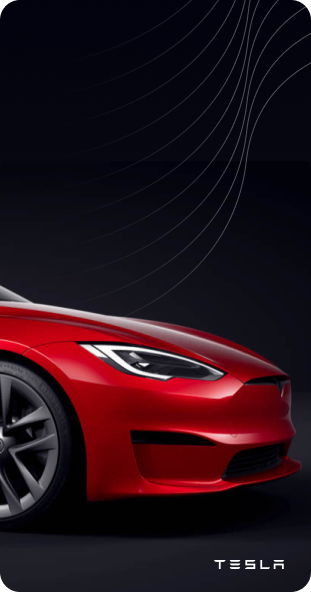
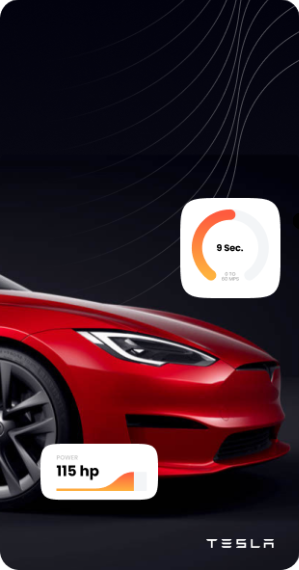
.

diff --git a/index.html b/index.html
@@ -13,9 +13,9 @@
                 Carzin
             </h2>
         </div>
-        <div class="website-menu-hamburguer">
+        <nav class="website-border-orange">
             <img src="/imagens/menu.svg" alt="Menu hamburguer">
-        </div>
+        </nav>
     </header>
     <section class="container tesla">
         <img src="/imagens/tesla.png" alt="Tesla vermelho com quantidade de cavalos e segundos de 0-100km/h">
@@ -61,54 +61,70 @@
             </div>
         </div>
     </section>
-    <section class="container">
-        <div>
+    <section class="container secao2">
+        <div class="website-subtitle-body">
             <h4>
                 HOW IT WORKS
             </h4>
         </div>
         <div>
-            <h3>
-                your friends to make your tour easy
-            </h3>
-            <p>
-                Lorem ipsum dolor sit amet, consectetur adipiscing elit. Netus libero, auctor imperdiet eu malesuada eu id cursus ullamcorper. Sed quisque
-            </p>
+            <div class="website-subtitle-body">
+                <h5>
+                    your friends to make your <span class="color-orange">tour easy</span>
+                </h5>
+            </div>
+            <div class="website-text-body text-align-center">
+                <p>
+                    Lorem ipsum dolor sit amet, consectetur adipiscing elit. Netus libero, auctor imperdiet eu malesuada eu id cursus ullamcorper. Sed quisque
+                </p>
+            </div>
         </div>
     </section>
-    <section class="container">
-        <div class="box-gray">
-            <div class="circle-red">
+    <section class="container secao3">
+        <div class="website-box-gray">
+            <div class="website-circle-red">
                 <img src="/imagens/dot.png" alt="Icone de localização">
             </div>
-            <h3>
-                Choose a Location
-            </h3>
-            <p>
-                Lorem ipsum dolor sit amet, consectetur adipiscing
-            </p>
+            <div>
+                <h3>
+                    Choose a Location
+                </h3>
+            </div>
+            <div>
+                <p>
+                    Lorem ipsum dolor sit amet, consectetur adipiscing
+                </p>
+            </div>
         </div>
-        <div class="box-gray">
-            <div class="circle-red">
+        <div class="website-box-gray">
+            <div class="website-circle-red">
                 <img src="/imagens/calendar.png" alt="Icone de calendario">
             </div>
-            <h3>
-                Pick-up date
-            </h3>
-            <p>
-                Lorem ipsum dolor sit amet, consectetur adipiscing
-            </p>
+            <div>
+                <h3>
+                    Pick-up date
+                </h3>
+            </div>
+            <div>
+                <p>
+                    Lorem ipsum dolor sit amet, consectetur adipiscing
+                </p>
+            </div>
         </div>
-        <div class="box-gray">
-            <div class="circle-red">
+        <div class="website-box-gray">
+            <div class="website-circle-red">
                 <img src="/imagens/car.png" alt="Icone de carro anônimo">
             </div>
-            <h3>
-                Book your car
-            </h3>
-            <p>
-                Lorem ipsum dolor sit amet, consectetur adipiscing
-            </p>
+            <div>
+                <h3>
+                    Book your car
+                </h3>
+            </div>
+            <div>
+                <p>
+                    Lorem ipsum dolor sit amet, consectetur adipiscing
+                </p>
+            </div>
         </div>
     </section>
     <section class="container">

diff --git a/css/styles.css b/css/styles.css
@@ -39,7 +39,7 @@ header {
     color: #fe5b3e;
 }
 
-.website-menu-hamburguer {
+.website-border-orange {
     display: flex;
     justify-content: center;
     align-items: center;
@@ -58,6 +58,9 @@ header {
 .tesla {
     border-radius: 20px;
     margin: 3rem 2rem 5rem 2rem;
+    width: 19.4375rem;
+    height: 37rem;
+    flex-shrink: 0;
 }
 
 .color-orange {
@@ -93,9 +96,32 @@ header {
     margin-bottom: 0.2rem;
 }
 
+
+
 .website-subtitle-body h3 {
     font-size: 1.25rem;
     font-weight: 900;
+}
+
+.website-subtitle-body h4 {
+    display: flex;
+    align-items: center;
+    justify-content: center;
+    font-weight: 100;
+    font-size: 1.2rem;
+    opacity: 0.6;
+    margin-top: 8rem;
+    letter-spacing: 0.075rem;
+}
+
+.website-subtitle-body h5 {
+    font-size: 2.25rem;
+    font-family: cocosharpExtrabold, sans-serif;
+    text-align: center;
+    margin-left: 0.5rem;
+    margin-top: 1rem;
+    line-height: 2.875rem;
+    letter-spacing: 0.0225rem;
 }
 
 .website-avaliation-image {
@@ -126,8 +152,67 @@ header {
     margin-right: 2rem;
 }
 
+.secao2 {
+    margin-left: 2.06rem;
+    margin-right: 2.06rem;
+}
+
+.secao3 {
+    margin-left: 0.81rem;
+    margin-right: 0.81rem;
+    margin-top: 1rem;
+}
+
 .website-avaliation {
     display: flex;
     justify-content: center;
     align-items: center;
+}
+
+.text-align-center {
+    text-align: center;
+    margin-top: 1.5rem;
+}
+
+.website-box-gray {
+    background-color: #f3f5f7;
+    border-radius: 24px;
+    width: 21.8125rem;
+    height: 22.8125rem;
+    flex-shrink: 0;
+    font-family: cocosharpRegular, sans-serif;
+    display: flex;
+    flex-direction: column;
+    justify-content: center;
+    align-items: center;
+    margin-top: 1.25rem;
+}
+
+.website-box-gray h3 {
+    background-color: #f3f5f7;
+    font-weight: 900;
+    padding-top: 2.25rem;
+    padding-bottom: 1rem;
+}
+
+.website-box-gray p {
+    background-color: #f3f5f7;
+    text-align: center;
+    padding-left: 3.81rem;
+    padding-right: 3.87rem;
+}
+
+.website-circle-red {
+    background-color: #fe5b3e;
+    border-radius: 100%;
+    display: flex;
+    justify-content: center;
+    align-items: center;
+    width: 8em;
+    height: 8em;
+    flex-shrink: 0; 
+}
+
+.website-circle-red img {
+    background-color: #fe5b3e;
 }
